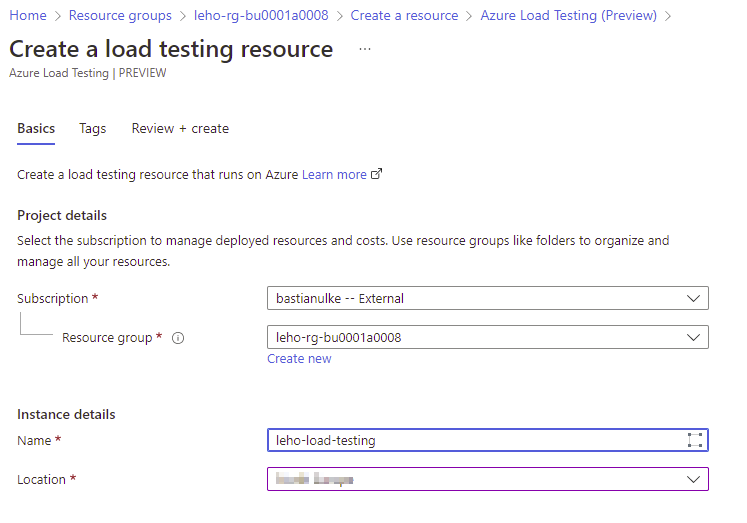
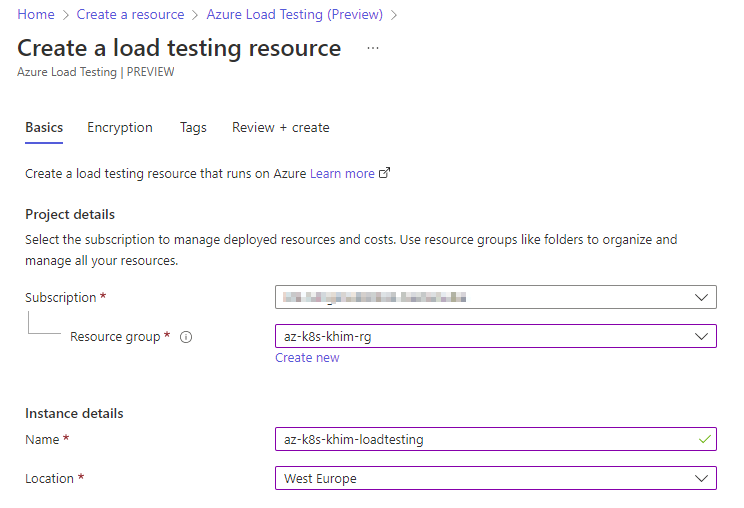
Minor review, new screenshots.

diff --git a/scaling_aks-lza/README.md b/scaling_aks-lza/README.md
@@ -11,10 +11,11 @@ To emulate user load, this tutorial uses [Azure Load Testing](https://docs.micro
 ##  Walthrough Overview
 In this walkthrough, you will...
 - create a new AKS cluster using the [AKS Construction Helper](https://azure.github.io/AKS-Construction/).
-- build a new container image hosting an API that creates CPU load my multiplying random numbers,
+- build a new container image hosting an API that creates CPU load by generating random numbers,
 - deploy this application to your AKS cluster,
 - use Azure Load Testing to simulate concurrent user requests and inspect the resulting load,
 - instruct the AKS scheduler to scale the number of pods depending on CPU utilization,
+- enable the AKS cluster autoscaler to scale the number of nodes hosting your workload,
 - use Azure Load Testing to simulate even more load and
 - see how AKS adds and removes virtual machines to the scale set to provide more resources.
 
@@ -48,7 +49,7 @@ In this walkthrough, you will...
 
 1. Check resources got deployed successfully and take a note of the names of both resources.
 
-   ![](img/2022-09-16-16-29-51.png)
+   ![](img/001_rg_resources-deployed.png)
 
    ```bash
    $ az acr list -g "az-k8s-khim-rg" -o table
@@ -60,6 +61,40 @@ In this walkthrough, you will...
    Name             Location    ResourceGroup    KubernetesVersion    CurrentKubernetesVersion    ProvisioningState    Fqdn
    ---------------  ----------  ---------------  -------------------  --------------------------  -------------------  -------------------------------------------------
    aks-az-k8s-khim  westeurope  az-k8s-khim-rg   1.23.8               1.23.8                      Succeeded            az-k8s-khim-dns-318a3497.hcp.   westeurope.azmk8s.io
+   ```
+
+1. Check that you have the [`kubectl`](https://kubernetes.io/docs/tasks/tools/#kubectl) available on your machine.
+
+   ```bash
+   $ kubectl version
+   kubectl version
+   Client Version: version.Info{Major:"1", Minor:"25", GitVersion:"v1.25.0", GitCommit:"a866cbe2e5bbaa01cfd5e969aa3e033f3282a8a2", GitTreeState:"clean", BuildDate:"2022-08-23T17:44:59Z", GoVersion:"go1.19", Compiler:"gc", Platform:"linux/amd64"}
+   Kustomize Version: v4.5.7
+   ...
+   ```
+
+   If `kubectl` is not yet available, install it using Azure CLI:
+
+   ```bash
+   $ az aks install-cli
+   ```
+
+1. Log in to your AKS cluster using [Azure CLI](https://learn.microsoft.com/en-us/cli/azure/aks?view=azure-cli-latest#az-aks-get-credentials).
+
+   ```bash
+   $ az aks get-credentials \
+     --resource-group az-k8s-khim-rg \
+     --name aks-az-k8s-khim
+   Merged "aks-az-k8s-khim" as current context
+   ```
+
+1. Get the list of nodes of your AKS cluster to check connectivity to your AKS cluster:
+
+   ```bash
+   $ kubectl get nodes
+   NAME                               STATUS   ROLES   AGE   VERSION
+   aks-npsystem-40226941-vmss000000   Ready    agent   23m   v1.23.8
+   aks-npuser01-40226941-vmss000000   Ready    agent   23m   v1.23.8
    ```
 
 ### Clone repository and build image for new API
@@ -93,7 +128,7 @@ In this walkthrough, you will...
 
 1. Build this application as container in your Azure Container Registry:
    ```bash
-   az acr build --image randomnumbers-linux:latest --registry "crazk8skhim2vryhzvv23oxek" --file Dockerfile-linux .
+   az acr build --image randomnumbers-linux:latest --registry "crazk8skhimqwzol4vktwxre" --file Dockerfile-linux .
    ...
    Run ID: cb7 was successful after 49s
    ```
@@ -105,7 +140,7 @@ In this walkthrough, you will...
 
 ### Deploy API to AKS cluster
 
-1. Edit the file `res/randomnumbers.yaml` and replace `<your acr name>` point to your ACR.
+1. Edit the file `res/randomnumbers.yaml` and replace `<your acr name>` in the image of deployment `rand-deployment` to point to your ACR.
 
 1. Apply the manifest:
 
@@ -130,7 +165,7 @@ In this walkthrough, you will...
    ```
 
 1. Open `http://<your external IP>/RandomNumbers` and check the API returns a response:
-
+   
    ![](img/020_randommultiplications_browser.png)
 
    ...or:
@@ -155,7 +190,7 @@ In this walkthrough, you will...
 
    ![](img/041_load-test-1_create-load-testing.png)
 
-1. Create a new JMeter script test and name it "10 threads, 50 loops"
+1. Once the Load Testing resource is created, browse to _Tests_ clade, create a new JMeter script test and name it "10 threads, 50 loops"
    
    :exclamation: Most screenshots below this will need to be updated -- if in doubt, follow instructions in text!
 
@@ -167,20 +202,22 @@ In this walkthrough, you will...
 
    ![](img/043_load-test-1_upload-definition.jmx.png)
 
-1. Define the parameters `protocol` (either `http` or `https`, please use `http` in this tutorial), `endpoint` (public IP of the service), `path` (`RandomNumbers` in this tutorial), `hostHeader` (:exclamation:), `threads` (defining how many requests will be run in parallel) and `loops` (how many repetitions will be done):
+1. Define the parameters `protocol` (either `http` or `https`, please use `http` in this tutorial), `endpoint` (public IP of the service), `path` (`RandomNumbers` in this tutorial), `hostHeader` (same as in `endpoint`), `threads` (defining how many requests will be run in parallel) and `loops` (how many repetitions will be done):
 
-   ![](img/044a_load-test-1_parameters.png)
+   ![](img/044_load-test-1_parameters.png)
 
 1. Accept the default values for _Load_ and _Test criteria_ 
+
 1. Under _Monitoring_, add your `AKS` cluster resource and the `npuser` Virtual Machine Scale Set (typically found under the `MC_` resource group) as monitored resources (double-check you select the right ones ;-)).
 
    ![](img/045_load-test-1_monitoring.png)
 
 1. Wait for the test to complete. You might want to inspect _Insights_ of your AKS cluster while the test is running:
 
+   <!--
    :construction: Execution time with 10/50: 4mins.
-
    :construction: Response times with 10/50: 6.59s
+   -->
 
    ![](img/046_load-test-1_container-insights.png)
 
@@ -242,11 +279,12 @@ In this walkthrough, you will...
 
    ![](img/052_load-test-2_container-insights.png)
 
-1. Inspect the results of the test again. You can see that (a) response times reduced towards the end of the test and (b) much more requests could be processed per minute.
+1. Inspect the results of the test again. You can see that (a) response times reduced towards after few minutes (b) much more requests could be processed per second.
 
+   <!--
    :construction: Execution time with 25/100: 6:30mins.
-
    :construction: Response times with 25/100: 7.37s
+   -->
 
    ![](img/051_load-test-2_test-results.png)
 
@@ -254,25 +292,31 @@ In this walkthrough, you will...
 
 ### Increase load by simulating more concurrent and sequential user requests
 
-1. Increase `maxReplicas` in `randomnumbers-hpa.yaml` to 50 and redeploy the pod autoscaler.
+1. Increase `maxReplicas` in `randomnumbers-hpa.yaml` with an editor of your choice to 50 and redeploy the pod autoscaler.
 
-1. Create another test in Azure Load Testing with 50 threads and 150 loops and run it.
+   ```bash
+   $ grep maxReplicas ./randomnumbers-hpa.yaml
+   maxReplicas: 50
 
-   ![](img/061_load-test-3_test-parametes.png)
+   $ kubectl apply -f randomnumbers-hpa.yaml
+   ```
+
+1. Create another test in Azure Load Testing with "50 threads, 150 loops" and run it.
 
 1. You will see the number of pods increasing again -- beyond the limit of 10 pods, but not reaching the 50 you specified in `randomnumbers-hpa.yaml`.
 
+   <!--
    :construction: Execution time with 50/150: 13:07mins.
-
    :construction: Response times with 50/150: 10.49s
+   -->
 
-1. Browse to the _Nodes_ tab of your AKS _Insights_. You see the load on your worker node (containing the node pool `npuser01` in its name) and a section titled _Unscheduled_ that lists some pods that the AKS cluster would have like to start but was unable to schedule:
+1. Browse to the _Nodes_ tab of your AKS _Insights_. you see the load on your worker node (containing the node pool `npuser01` in its name) and, after some minutes, a section titled _Unscheduled_ that lists some pods that the AKS cluster would have like to start but was unable to schedule:
 
-   ![](img/062a_load-test-3_node-insights.png)
+   ![](img/062_load-test-3_node-insights.png)
 
 1. But why is that? Open the AKS Logs, search for the predefined query _Kubernetes events_ and run it.
 
-   ![](img/064_load-test-3_log-query-1.png)
+   ![](img/063_load-test-3_log-query-1.png)
 
    The query is defined as follows...
 
@@ -292,7 +336,7 @@ In this walkthrough, you will...
    The interesting part is `1 Insufficient cpu`, preventing pods from being assigned to the nodes of our `npuser01` node pool. Let us take a closer look at one of these nodes using:
 
    ```bash
-   kubectl describe node aks-npuser01-37699233-vmss000004  | less
+   $ kubectl describe node aks-npuser01-37699233-vmss000000
    ```
 
    The output reveals that 1870 of 1900 available mili cores have already been allocated. 
@@ -308,7 +352,7 @@ In this walkthrough, you will...
    cpu                1830m (96%)   5556m (292%)
    ```
 
-   As each pod requests 75 mili cores (see resource requests in `randomnumbers.yaml`), scheduling another one would exceed the limit of 1900 mili cores available on that node. Therefore, the 
+   As each pod requests 75 mili cores (see resource requests in `randomnumbers.yaml`), scheduling another one would exceed the limit of 1900 mili cores available on that node. Therefore, the scheduler considers the pod to be _unschedulable_ and does not proceed with creating the respective containers.
 
    Note that looking at the _Nodes_ tab of AKS _Insights_, CPU capacity does _not_ seem to be exhausted (the bars representing the load remain green and do not reach a high percentage). This is because this load represents the actual CPU load rather than the resource requests.
 
@@ -330,9 +374,9 @@ In this walkthrough, you will...
        scale-down-utilization-threshold=0.8
    ```
 
-   Note that this command _does not enable_ autoscaling itself but only provides parameters for autoscaler where it is already enabled.
+   Note that this command _does not enable_ autoscaling itself but only provides parameters for autoscaler where it is already enabled...
 
-1. Therefore, enable autoscaling on your `npuser01` node pool now:
+1. ...therefore, enable autoscaling between a number of 1 and 3 nodes on your `npuser01` node pool now:
 
    ```bash
    az aks nodepool update \
@@ -347,14 +391,14 @@ In this walkthrough, you will...
 1. Start watching the set of pods as well as the set of worker nodes using `watch`:
 
    ```batch
-   kubectl get pods -n scaling-wt
+   watch kubectl get pods -n scaling-wt
    ```
 
    ```batch
    watch kubectl get nodes
    ```
 
-1. Restart the test with `50 threads, 500 loops`; after some time, you will not only see the number of pods increasing, but also the number of nodes.
+1. Create a final test with "50 threads, 500 loops"; after some time, you will not only see the number of pods increasing, but also the number of nodes.
 
    ```batch
    kubectl get nodes
@@ -367,19 +411,20 @@ In this walkthrough, you will...
 
 1. Also, observing the _Nodes_ tab of your AKS _Insights_, you see the load on your worker nodes and how more workers are added to the cluster:
 
-   ![](img/062_load-test-3_node-insights.png)
+   ![](img/071_load-test-4_node-insights.png)
 
 1. (For information only) Using the `Metrics` balde, you can also configure custom graphs to get insights about the state of your cluster. For example, select the namespace `insights.containers/pods`, metric `podCount` and apply a splitting by `Node` to see the number of pods scheduled on each node. 
 
-   ![](img/063_load-test-3_pods-per-node.png)
+   ![](img/072_load-test-4_pods-per-node.png)
 
 1. Once the test terminated, inspect the results of the test again. Also see how the peak of requests per second correlates with the peak of deployed pods.
 
+   <!--
    :construction: Execution time with 50/500: 24:10mins.
-   
    :construction: Response times with 50/500: 5.21s
+   -->
 
-   ![](img/064_load-test-3_test-results.png)
+   ![](img/073_load-test-4_test-results.png)
 
 1. After some time, the number of pods and nodes will decrease again. The AKS logs reveal some further information:
    ```
@@ -431,39 +476,12 @@ _Frequently Asked Questions_ (`autoscaler/cluster-autoscaler/FAQ.md`) in [kubern
 
 [Reserve Compute Resources for System Daemons](https://kubernetes.io/docs/tasks/administer-cluster/reserve-compute-resources/)
 
+[Safely Drain a Node](https://kubernetes.io/docs/tasks/administer-cluster/safely-drain-node/)
+
 ## Azure Load Testing
 
 [Quickstart: Create and run a load test with Azure Load Testing Preview](https://docs.microsoft.com/en-us/azure/load-testing/quickstart-create-and-run-load-test)
 
-##  Troubleshooting the missing scale down event
-
-- Check log statements in of `cluster-autoscaler`
-   ```
-   AzureDiagnostics
-   | where Category == "cluster-autoscaler"
-   | project TimeGenerated, attrs_s, log_s, pod_s
-   | sort by TimeGenerated desc
-   ```
-
-- Check the CPU requirements (might be higher than `scale-down-utilization-threshold` in autoscaler profile)
-   ```bash
-   kubectl describe nodes | less
-   ```
-
-- Change threshold to consider underutilization from `0.5` to `0.8`
-   ```bash
-   az aks update --resource-group leho-rg-bu0001a0008 --name leho-aks-rio6zecikhluy --cluster-autoscaler-profile scale-down-utilization-threshold=0.8
-   ```
-
-- Change unneeded time for a more aggressive scale down:
-   ```bash
-   az aks update --resource-group leho-rg-bu0001a0008 --name leho-aks-rio6zecikhluy --cluster-autoscaler-profile scale-down-unneeded-time=2m
-   ```
-
-- [Safely Drain a Node](https://kubernetes.io/docs/tasks/administer-cluster/safely-drain-node/)
-
-
 
 # :construction: Todos 
 - Change github links to MS repo?
-- Consistency of screenshots (especially the resource names and parameter names and values) with text.
